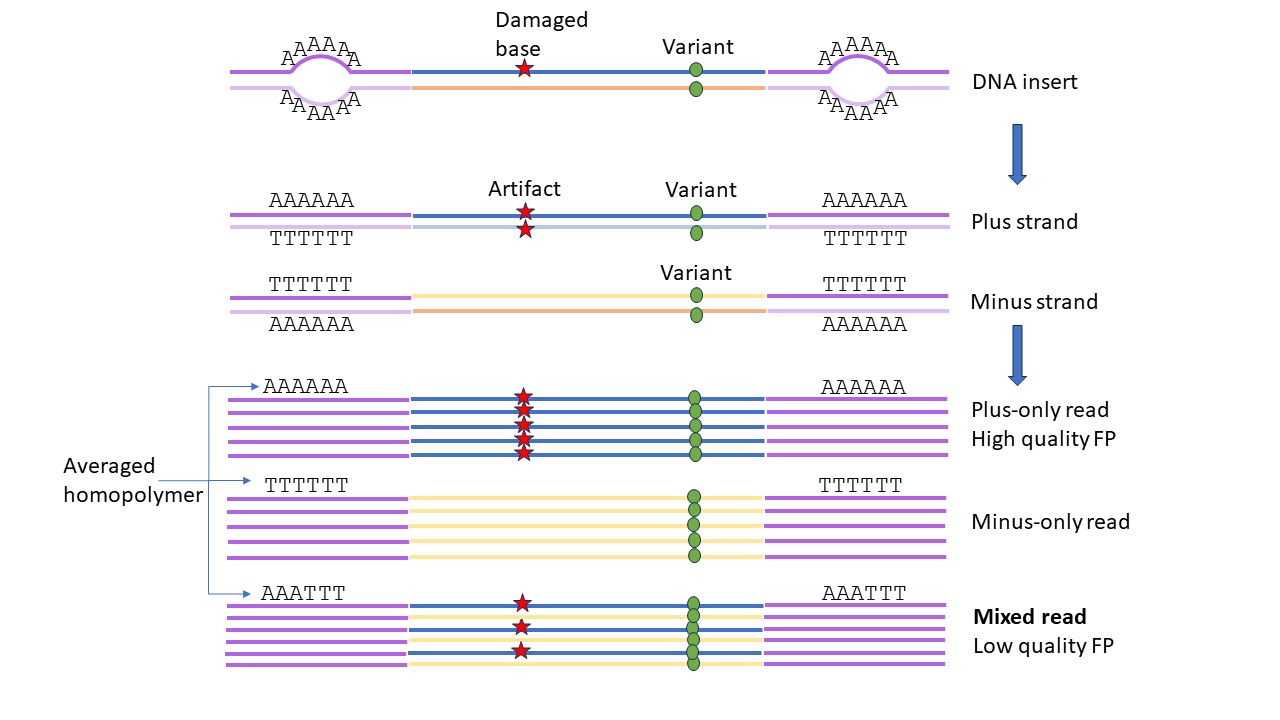
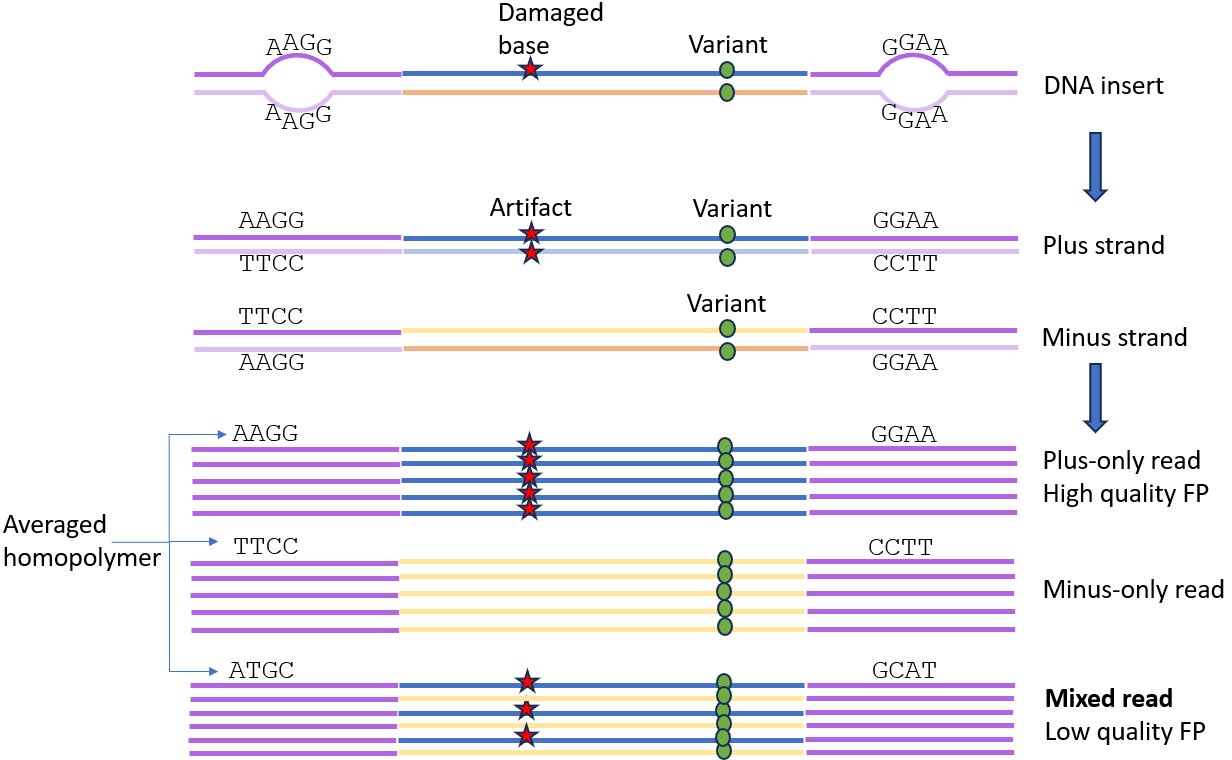
missed a few more

Changed region(s): [[0.0, 0.2444, 1.0, 1.0], [0.1542, 0.0, 0.9562, 0.275], [0.8636, 0.1528, 0.8945, 0.275]]

diff --git a/test/unit/mrd/test_ppmSeq_qc_utils.py b/test/unit/mrd/test_ppmSeq_qc_utils.py
@@ -35,41 +35,41 @@ expected_output_featuremap_legacy_v5 = pjoin(
     inputs_dir,
     "333_CRCs_39_legacy_v5.featuremap.single_substitutions.subsample.with_strand_ratios.vcf.gz",
 )
-sorter_stats_csv_ppmSeq_v2 = pjoin(inputs_dir, "037239-CgD1502_Cord_Blood-Z0032-CTCTGTATTGCAGAT.csv")
-sorter_stats_json_ppmSeq_v2 = pjoin(inputs_dir, "037239-CgD1502_Cord_Blood-Z0032-CTCTGTATTGCAGAT.json")
-trimmer_failure_codes_csv_ppmSeq_v2 = pjoin(
+sorter_stats_csv_ppmSeq_v1 = pjoin(inputs_dir, "037239-CgD1502_Cord_Blood-Z0032-CTCTGTATTGCAGAT.csv")
+sorter_stats_json_ppmSeq_v1 = pjoin(inputs_dir, "037239-CgD1502_Cord_Blood-Z0032-CTCTGTATTGCAGAT.json")
+trimmer_failure_codes_csv_ppmSeq_v1 = pjoin(
     inputs_dir, "037239-CgD1502_Cord_Blood-Z0032-CTCTGTATTGCAGAT.failure_codes.csv"
 )
-trimmer_histogram_ppmSeq_v2_csv = pjoin(
+trimmer_histogram_ppmSeq_v1_csv = pjoin(
     inputs_dir,
     "037239-CgD1502_Cord_Blood-Z0032-CTCTGTATTGCAGAT."
     "Start_loop.Start_loop.End_loop.End_loop.native_adapter.histogram.csv",
 )
-parsed_histogram_parquet_ppmSeq_v2 = pjoin(
+parsed_histogram_parquet_ppmSeq_v1 = pjoin(
     inputs_dir,
     "037239-CgD1502_Cord_Blood-Z0032-CTCTGTATTGCAGAT.parsed_histogram.parquet",
 )
 
-sorter_stats_csv_ppmSeq_v2_amp = pjoin(inputs_dir, "400808-Lb_2768-Z0035-CTGAATGATCTCGAT.csv")
-sorter_stats_json_ppmSeq_v2_amp = pjoin(inputs_dir, "400808-Lb_2768-Z0035-CTGAATGATCTCGAT.json")
-trimmer_failure_codes_csv_ppmSeq_v2_amp = pjoin(inputs_dir, "400808-Lb_2768-Z0035-CTGAATGATCTCGAT.failure_codes.csv")
-trimmer_histogram_ppmSeq_v2_amp = pjoin(
+sorter_stats_csv_ppmSeq_v1_amp = pjoin(inputs_dir, "400808-Lb_2768-Z0035-CTGAATGATCTCGAT.csv")
+sorter_stats_json_ppmSeq_v1_amp = pjoin(inputs_dir, "400808-Lb_2768-Z0035-CTGAATGATCTCGAT.json")
+trimmer_failure_codes_csv_ppmSeq_v1_amp = pjoin(inputs_dir, "400808-Lb_2768-Z0035-CTGAATGATCTCGAT.failure_codes.csv")
+trimmer_histogram_ppmSeq_v1_amp = pjoin(
     inputs_dir,
     "400808-Lb_2768-Z0035-CTGAATGATCTCGAT."
     "Start_loop_name.Start_loop_pattern_fw.End_loop_name.End_loop_pattern_fw.Stem_end_length.histogram.csv",
 )
-trimmer_histogram_extra_ppmSeq_v2_amp = pjoin(
+trimmer_histogram_extra_ppmSeq_v1_amp = pjoin(
     inputs_dir,
     "400762-Lb_2752-Z0123-CAGATCGCCACAGAT.subsample.Dumbbell_leftover_start_match.hist.csv",
 )  # it's not the same file but the right format
 
 subdir = pjoin(inputs_dir, "401057001")
-sorter_stats_csv_ppmSeq_v2_401057001 = pjoin(subdir, "401057001-Lb_2772-Z0016-CATCCTGTGCGCATGAT.csv")
-sorter_stats_json_ppmSeq_v2_401057001 = pjoin(subdir, "401057001-Lb_2772-Z0016-CATCCTGTGCGCATGAT.json")
-trimmer_failure_codes_csv_ppmSeq_v2_401057001 = pjoin(
+sorter_stats_csv_ppmSeq_v1_401057001 = pjoin(subdir, "401057001-Lb_2772-Z0016-CATCCTGTGCGCATGAT.csv")
+sorter_stats_json_ppmSeq_v1_401057001 = pjoin(subdir, "401057001-Lb_2772-Z0016-CATCCTGTGCGCATGAT.json")
+trimmer_failure_codes_csv_ppmSeq_v1_401057001 = pjoin(
     subdir, "401057001-Lb_2772-Z0016-CATCCTGTGCGCATGAT_trimmer-failure_codes.csv"
 )
-trimmer_histogram_ppmSeq_v2_401057001 = pjoin(
+trimmer_histogram_ppmSeq_v1_401057001 = pjoin(
     subdir,
     "Z0016-Start_loop_name.Start_loop_pattern_fw.End_loop_name.End_loop_pattern_fw.native_adapter_length.histogram.csv",
 )
@@ -80,16 +80,16 @@ def _assert_files_are_identical(file1, file2):
         assert f1.read() == f2.read()
 
 
-def test_read_ppmSeq_v2_trimmer_histogram(tmpdir):
+def test_read_ppmSeq_v1_trimmer_histogram(tmpdir):
     tmp_out_path = pjoin(tmpdir, "tmp_out.parquet")
     df_trimmer_histogram = read_ppmSeq_trimmer_histogram(
         ppmSeqAdapterVersions.V1,
-        trimmer_histogram_ppmSeq_v2_csv,
+        trimmer_histogram_ppmSeq_v1_csv,
         output_filename=tmp_out_path,
         legacy_histogram_column_names=True,
     )
     df_trimmer_histogram_from_parquet = pd.read_parquet(tmp_out_path)
-    df_trimmer_histogram_expected = pd.read_parquet(parsed_histogram_parquet_ppmSeq_v2)
+    df_trimmer_histogram_expected = pd.read_parquet(parsed_histogram_parquet_ppmSeq_v1)
     assert_frame_equal(
         df_trimmer_histogram,
         df_trimmer_histogram_expected,
@@ -100,7 +100,7 @@ def test_read_ppmSeq_v2_trimmer_histogram(tmpdir):
     )
 
 
-def test_read_ppmSeq_v1_trimmer_histogram(tmpdir):
+def test_read_ppmSeq_legacy_v5_trimmer_histogram(tmpdir):
     tmp_out_path = pjoin(tmpdir, "tmp_out.parquet")
     df_trimmer_histogram = read_ppmSeq_trimmer_histogram(
         ppmSeqAdapterVersions.LEGACY_V5,
@@ -120,7 +120,7 @@ def test_read_ppmSeq_v1_trimmer_histogram(tmpdir):
     )
 
 
-def test_read_ppmSeq_legacy_v5_trimmer_histogram(tmpdir):
+def test_read_ppmSeq_legacy_v5_start_trimmer_histogram(tmpdir):
     tmp_out_path = pjoin(tmpdir, "tmp_out.parquet")
 
     df_trimmer_histogram = read_ppmSeq_trimmer_histogram(
@@ -313,10 +313,10 @@ def test_ppmSeq_analysis_legacy_v5(tmpdir):
 def test_ppmSeq_analysis_dmbl(tmpdir):
     ppmSeq_qc_analysis(
         ppmSeqAdapterVersions.DMBL,
-        trimmer_histogram_csv=[trimmer_histogram_ppmSeq_v2_amp],
-        trimmer_histogram_extra_csv=[trimmer_histogram_extra_ppmSeq_v2_amp],
-        sorter_stats_csv=sorter_stats_csv_ppmSeq_v2_amp,
-        trimmer_failure_codes_csv=trimmer_failure_codes_csv_ppmSeq_v2_amp,
+        trimmer_histogram_csv=[trimmer_histogram_ppmSeq_v1_amp],
+        trimmer_histogram_extra_csv=[trimmer_histogram_extra_ppmSeq_v1_amp],
+        sorter_stats_csv=sorter_stats_csv_ppmSeq_v1_amp,
+        trimmer_failure_codes_csv=trimmer_failure_codes_csv_ppmSeq_v1_amp,
         output_path=tmpdir,
         output_basename="TEST_DMBL",
     )
@@ -325,9 +325,9 @@ def test_ppmSeq_analysis_dmbl(tmpdir):
 def test_ppmSeq_analysis_v1(tmpdir):
     ppmSeq_qc_analysis(
         ppmSeqAdapterVersions.V1,
-        trimmer_histogram_csv=[trimmer_histogram_ppmSeq_v2_401057001],
-        sorter_stats_csv=sorter_stats_csv_ppmSeq_v2_401057001,
-        trimmer_failure_codes_csv=trimmer_failure_codes_csv_ppmSeq_v2_401057001,
+        trimmer_histogram_csv=[trimmer_histogram_ppmSeq_v1_401057001],
+        sorter_stats_csv=sorter_stats_csv_ppmSeq_v1_401057001,
+        trimmer_failure_codes_csv=trimmer_failure_codes_csv_ppmSeq_v1_401057001,
         output_path=tmpdir,
         output_basename="TEST_v1",
     )

diff --git a/ugvc/mrd/ppmSeq_utils.py b/ugvc/mrd/ppmSeq_utils.py
@@ -1946,14 +1946,14 @@ def ppmSeq_qc_analysis(
         )
         illustration_file = os.path.join(
             os.path.dirname(os.path.dirname(__file__)),
-            "reports/ppm_seq/ppmSeq_v1_illustration.png"
+            "reports/ppm_seq/ppmSeq_legacy_v5_illustration.png"
             if adapter_version
             in (
                 ppmSeqAdapterVersions.LEGACY_V5_START.value,
                 ppmSeqAdapterVersions.LEGACY_V5.value,
                 ppmSeqAdapterVersions.LEGACY_V5_END.value,
             )
-            else "reports/ppm_seq/ppmSeq_v2_illustration.png",
+            else "reports/ppm_seq/ppmSeq_v1_illustration.png",
         )
         parameters = dict(
             adapter_version=(adapter_version if isinstance(adapter_version, str) else adapter_version.value),
